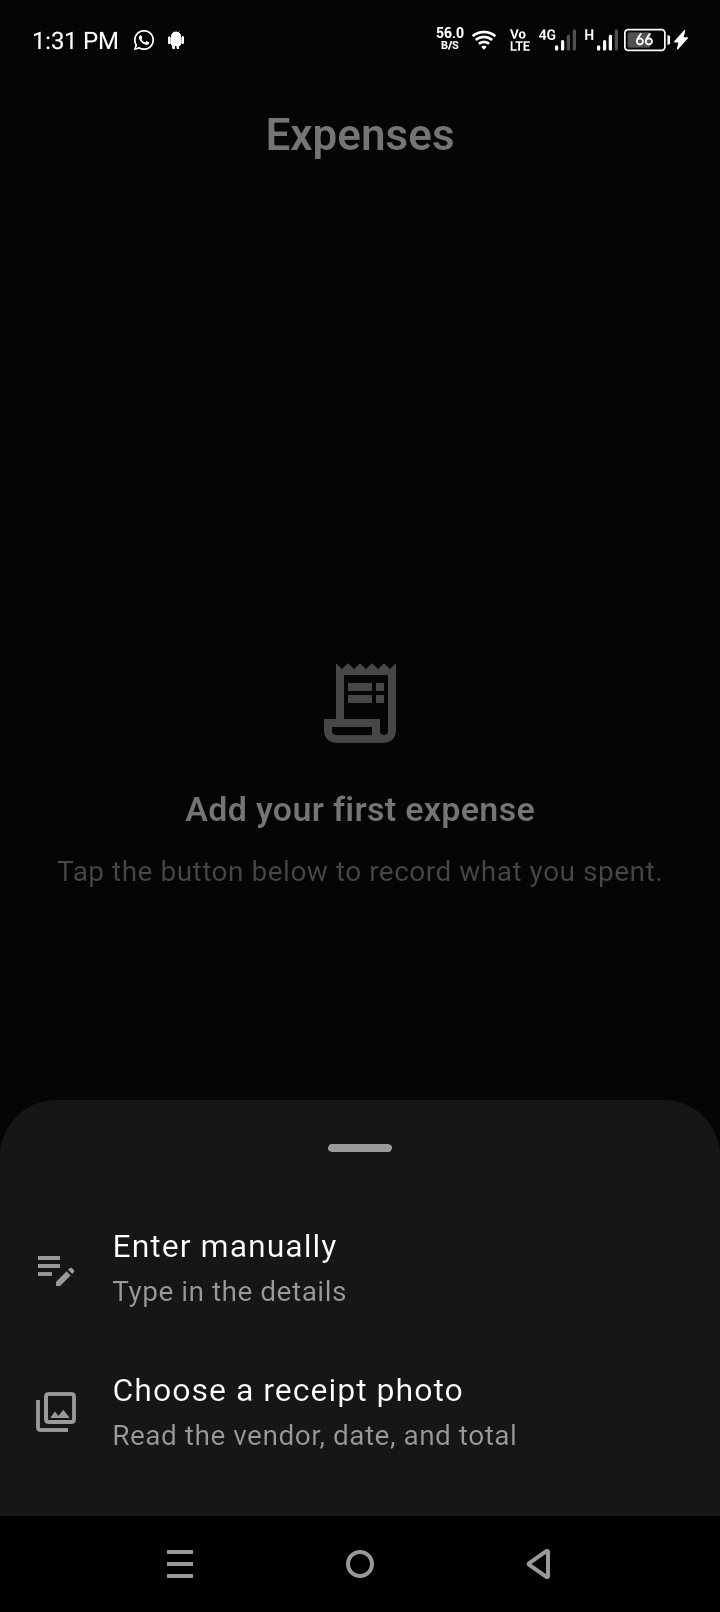
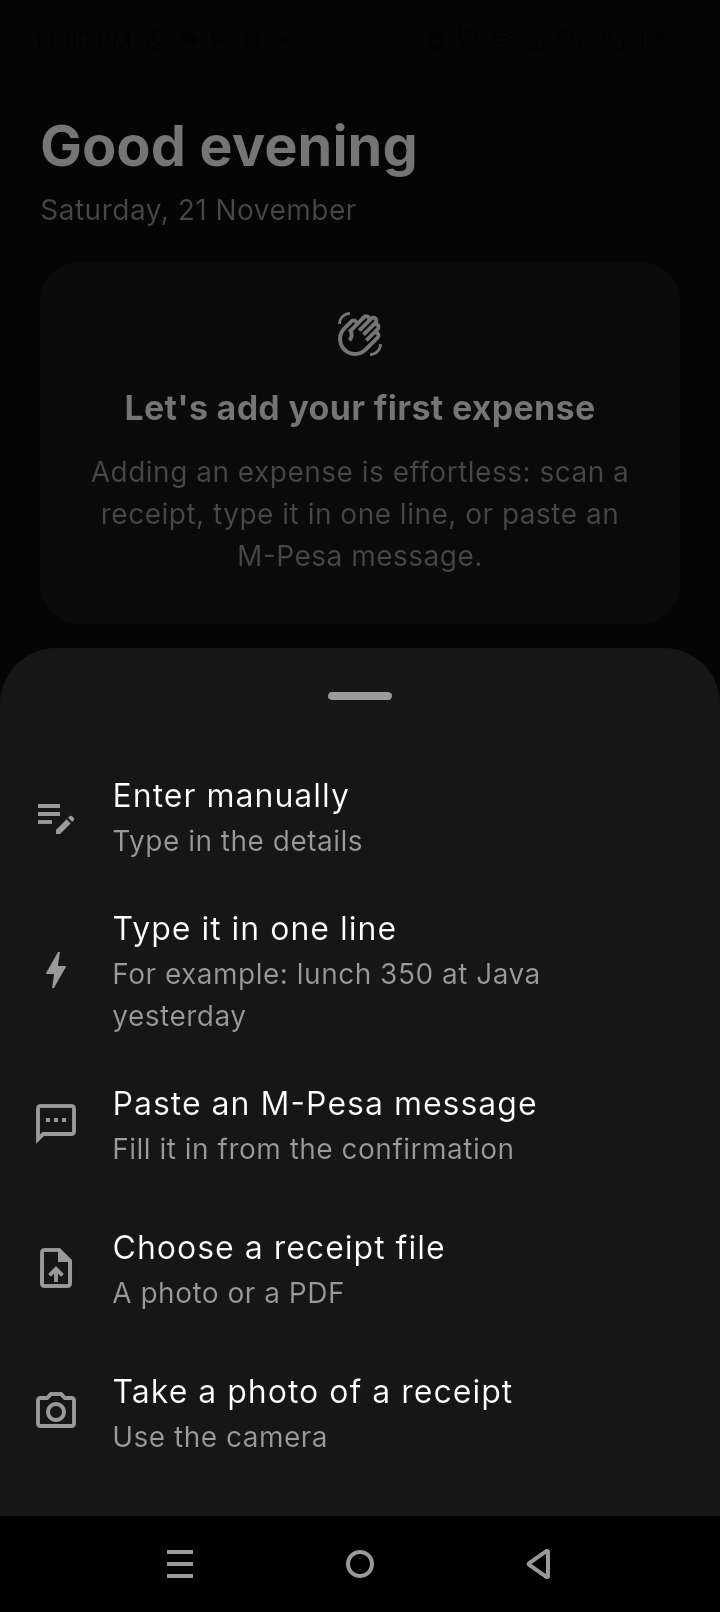
docs: update the add-expense screenshot to the current sheet

diff --git a/README.md b/README.md
@@ -102,7 +102,7 @@ Choose a receipt photo or PDF and the vendor, date and total are read on the pho
 
 <table>
   <tr>
-    <td align="center"><img src="docs/screenshots/scan-add-sheet.jpg" width="180" alt="Add expense sheet: enter manually or choose a receipt photo"><br><sub>1. Choose how to add</sub></td>
+    <td align="center"><img src="docs/screenshots/scan-add-sheet.jpg" width="180" alt="Add expense sheet: enter manually, type one line, paste an M-Pesa message, choose a receipt file or take a photo"><br><sub>1. Choose how to add</sub></td>
     <td align="center"><img src="docs/screenshots/scan-pick.jpg" width="180" alt="The phone's photo picker, with the photos blurred"><br><sub>2. Pick a receipt photo</sub></td>
     <td align="center"><img src="docs/screenshots/scan-review.jpg" width="180" alt="Add expense form filled in from a receipt, with a note to check the amount"><br><sub>3. Check what was read</sub></td>
     <td align="center"><img src="docs/screenshots/scan-saved.jpg" width="180" alt="The expense saved in the list"><br><sub>4. Saved</sub></td>
